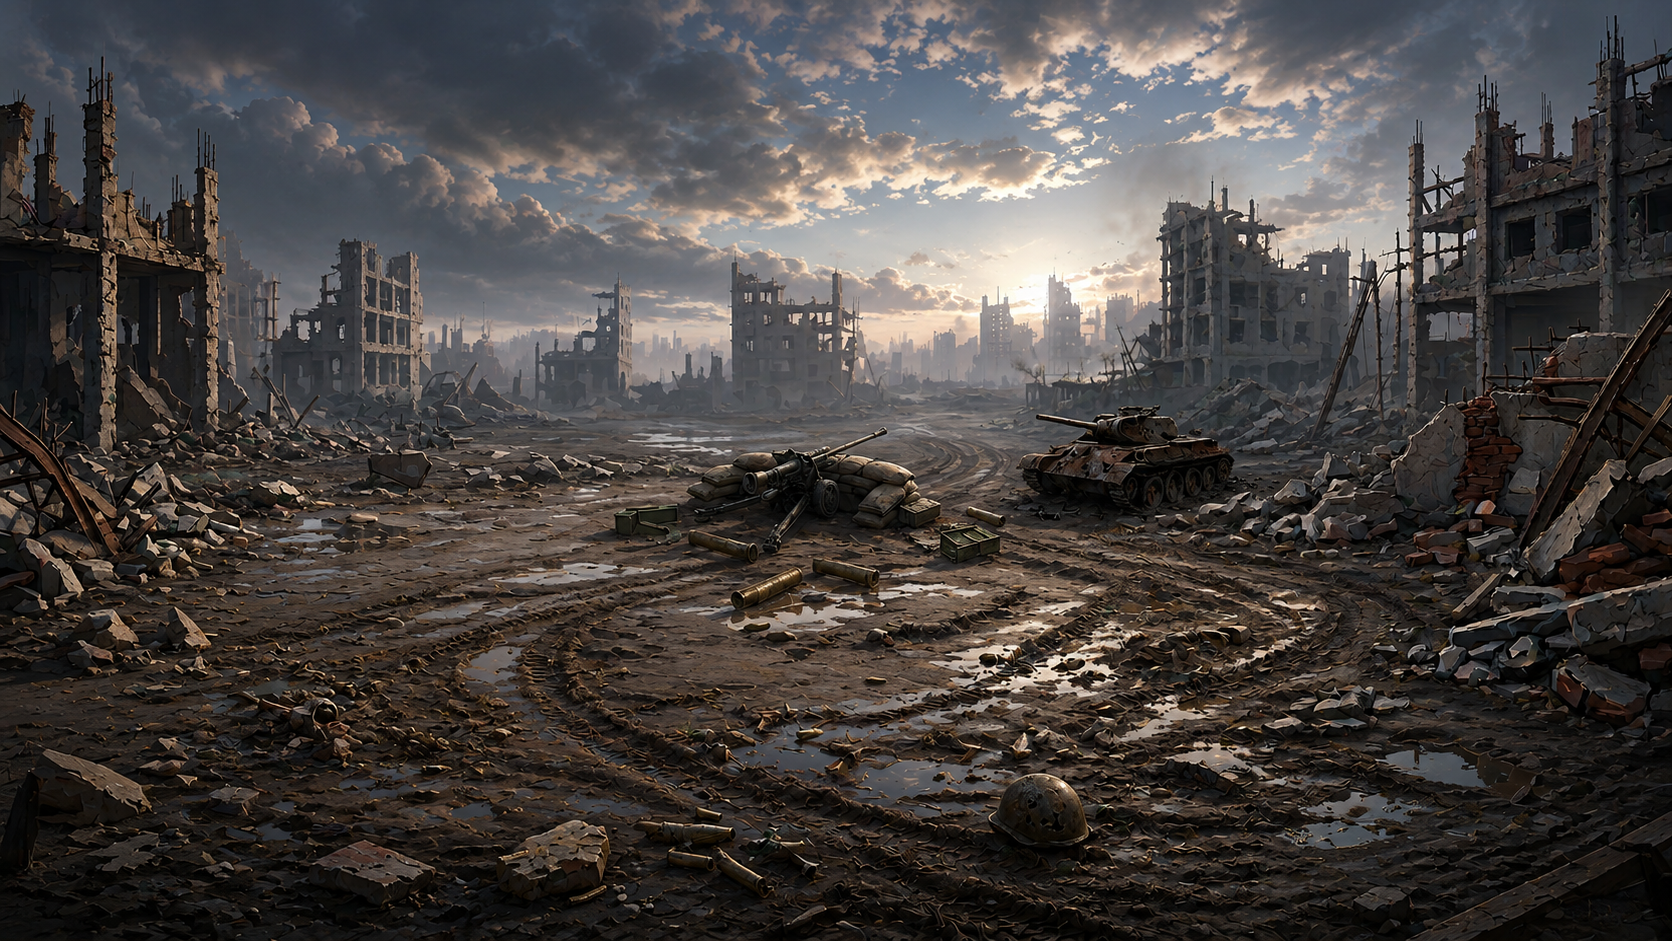
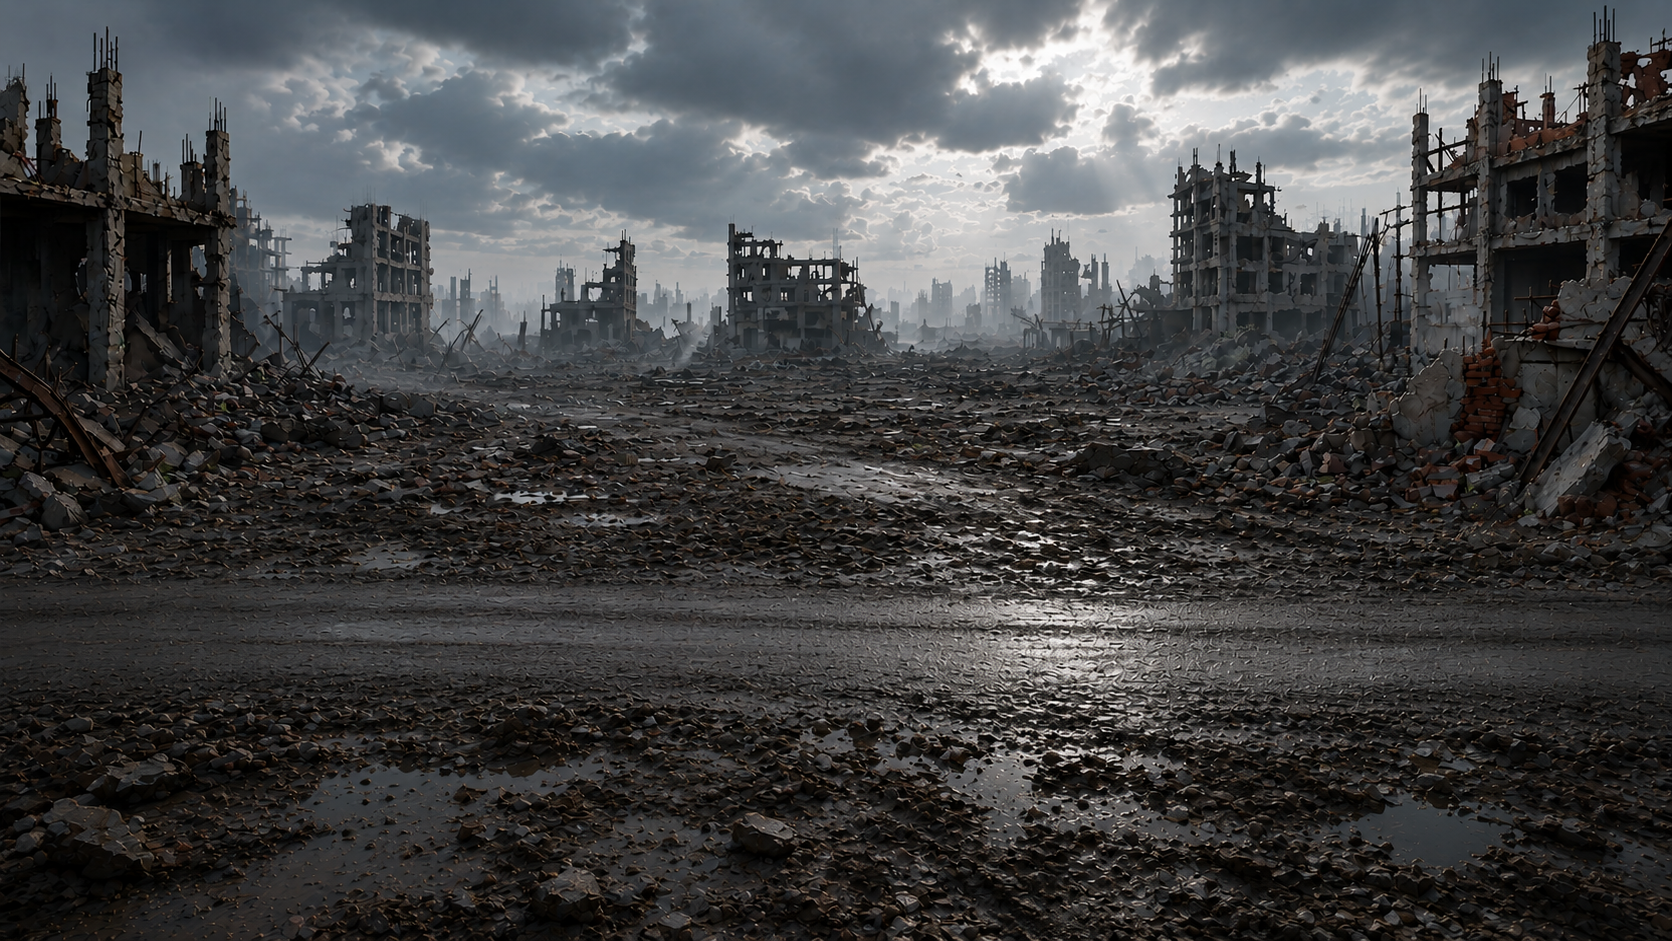
Expand shop assets and background selection support
This commit updates the shop catalog schema and asset handling so purchasable items can use display titles, numeric upgrade extras, and matching start-screen backgrounds. It also refreshes and adds image assets to support the expanded shop inventory.

* ShopData.h:
  * Rename shop asset display text from `name` to `title` to match the updated catalog schema.
  * Add `extra` metadata for upgrade-specific values such as stat bonuses.

* gameData.json:
  * Replace shop asset `name` fields with `title` fields and add required `extra` values.
  * Update drone catalog entries and add new purchasable background options.

* DataManager.cpp:
  * Parse `title` with fallback support for legacy `name` entries.
  * Require and validate non-negative `extra` values for shop assets.
  * Ignore hidden start-background companion images when counting uncataloged shop files.

* Resources.h:
  * Move the default start background reference to the default image asset location.

* ResourceManager.cpp:
  * Add matching start-background path resolution for selected backgrounds.
  * Apply both gameplay and start-screen backgrounds when a background shop asset is selected.

* ShopScreen.cpp:
  * Render shop tiles and previews using the new `title` field.

* Image assets:
  * Refresh default background and drone artwork.
  * Add default and shop start-background companion images.
  * Add new shop background images and remove obsolete game/shop image files.

diff --git a/src/Gameplay/DataManager.cpp b/src/Gameplay/DataManager.cpp
@@ -362,6 +362,15 @@ std::string optionalString(const JsonValue::Object& object,
     return found->second.string();
 }
 
+std::string requireTitle(const JsonValue::Object& object,
+                         const std::string& context) {
+    const std::string title = optionalString(object, "title");
+    if (!title.empty())
+        return title;
+
+    return requireString(object, "name", context);
+}
+
 LevelConfig parseLevel(const JsonValue& value, std::size_t stageIndex) {
     if (!value.isObject()) {
         throw std::runtime_error("DataManager: stage "
@@ -398,14 +407,18 @@ ShopAsset parseShopAsset(const JsonValue& value) {
     ShopAsset asset;
     asset.id = id;
     asset.type = type;
-    asset.name = requireString(object, "name", "shop asset " + std::to_string(id));
+    asset.title = requireTitle(object, "shop asset " + std::to_string(id));
     asset.price = requireInt(object, "price", "shop asset " + std::to_string(id));
     asset.file = requireString(object, "file", "shop asset " + std::to_string(id));
+    asset.extra = requireInt(object, "extra", "shop asset " + std::to_string(id));
     asset.isDefault = optionalBool(object, "default", false);
     asset.description = optionalString(object, "description");
 
     if (asset.price < 0)
         throw std::runtime_error("DataManager: shop asset price cannot be negative");
+
+    if (asset.extra < 0)
+        throw std::runtime_error("DataManager: shop asset extra cannot be negative");
 
     if (!std::filesystem::exists(asset.file))
         throw std::runtime_error("DataManager: missing shop asset file: " + asset.file);
@@ -444,6 +457,10 @@ std::vector<ShopAsset> parseShopAssets(const JsonValue::Object& root) {
     return assets;
 }
 
+bool isHiddenShopCompanionFile(const std::filesystem::path& path) {
+    return path.filename().generic_string().starts_with("start-background");
+}
+
 int countUncatalogedShopFiles(const std::vector<ShopAsset>& catalog) {
     std::set<std::string> catalogFiles;
     for (const ShopAsset& asset : catalog)
@@ -457,6 +474,9 @@ int countUncatalogedShopFiles(const std::vector<ShopAsset>& catalog) {
 
         for (const auto& entry : std::filesystem::recursive_directory_iterator(folder)) {
             if (!entry.is_regular_file())
+                continue;
+
+            if (isHiddenShopCompanionFile(entry.path()))
                 continue;
 
             const std::string path = entry.path().generic_string();

diff --git a/src/Resources/ResourceManager.cpp b/src/Resources/ResourceManager.cpp
@@ -1,8 +1,17 @@
 #include "Resources/ResourceManager.h"
+#include <filesystem>
 #include <fstream>
 #include <iostream>
 #include <stdexcept>
 #include <type_traits>
+
+namespace {
+std::string matchingStartBackgroundPath(const std::string& backgroundPath) {
+    const std::filesystem::path path(backgroundPath);
+    const std::filesystem::path startFilename = "start-" + path.filename().string();
+    return (path.parent_path() / startFilename).generic_string();
+}
+}
 
 ResourceManager& ResourceManager::instance() {
     static ResourceManager _instance;
@@ -110,6 +119,7 @@ void ResourceManager::applyShopSelections(const std::vector<ShopAsset>& catalog,
                 break;
             case ShopAssetType::Background:
                 setImage(GameObjects::Background, asset.file);
+                setImage(GameObjects::StartBackground, matchingStartBackgroundPath(asset.file));
                 break;
             case ShopAssetType::BackgroundMusic:
                 setSoundPath(Sounds::Background, asset.file);

diff --git a/src/Screens/ShopScreen.cpp b/src/Screens/ShopScreen.cpp
@@ -364,7 +364,7 @@ void ShopScreen::drawTile(sf::RenderTarget& target,
     }
 
     drawWrappedTileName(target,
-        asset.name,
+        asset.title,
         { bounds.position.x + 22.f, bounds.position.y + 266.f },
         bounds.size.x - 44.f);
 
@@ -530,7 +530,7 @@ void ShopScreen::drawPreview(sf::RenderTarget& target) const {
     panel.setOutlineThickness(OverlayViewConfig::PanelOutlineThickness);
     target.draw(panel);
 
-    sf::Text title = makeText(m_previewAsset->name, OverlayViewConfig::TitleTextSize,
+    sf::Text title = makeText(m_previewAsset->title, OverlayViewConfig::TitleTextSize,
         { WindowConfig::Width / 2.f, panelBounds.position.y + 56.f }, OverlayViewConfig::TitleColor);
     GraphicsUtils::centerOrigin(title);
     target.draw(title);

diff --git a/include/Resources/Resources.h b/include/Resources/Resources.h
@@ -27,7 +27,7 @@ namespace Resources {
     { GameObjects::Gear, "images/game/gear.png" },
     { GameObjects::Lock, "images/game/lock.png" },
     { GameObjects::SmallEnemy, "images/game/smallEnemy.png" },
-    { GameObjects::StartBackground, "images/game/start-background.png" },
+    { GameObjects::StartBackground, "images/default/start-background.png" },
     { GameObjects::XSquare, "images/game/x.square.png" },
 
 } };

diff --git a/include/Gameplay/ShopData.h b/include/Gameplay/ShopData.h
@@ -11,9 +11,10 @@
 struct ShopAsset {
     int id = 0;
     ShopAssetType type = ShopAssetType::CommandVehicle;
-    std::string name;
+    std::string title;
     int price = 0;
     std::string file;
+    int extra = 0;
     bool isDefault = false;
     std::string description;
 };
